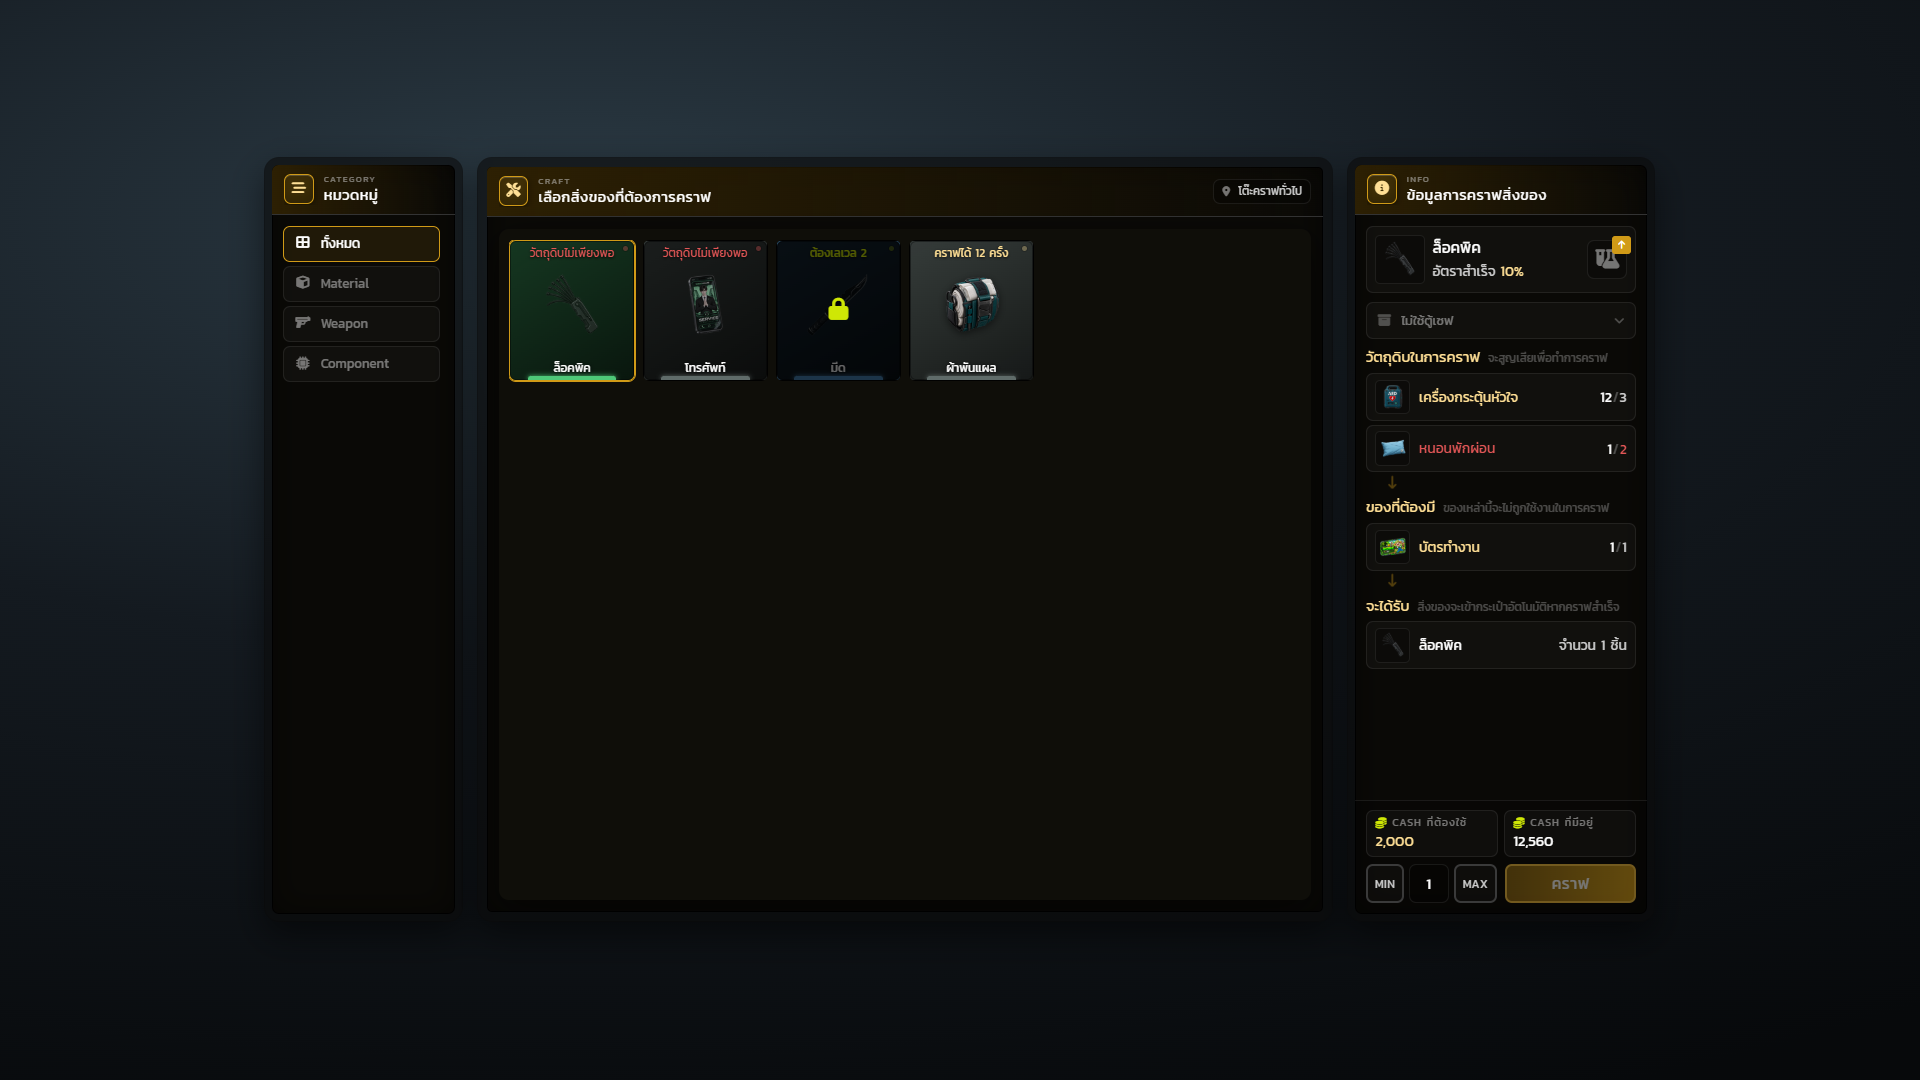
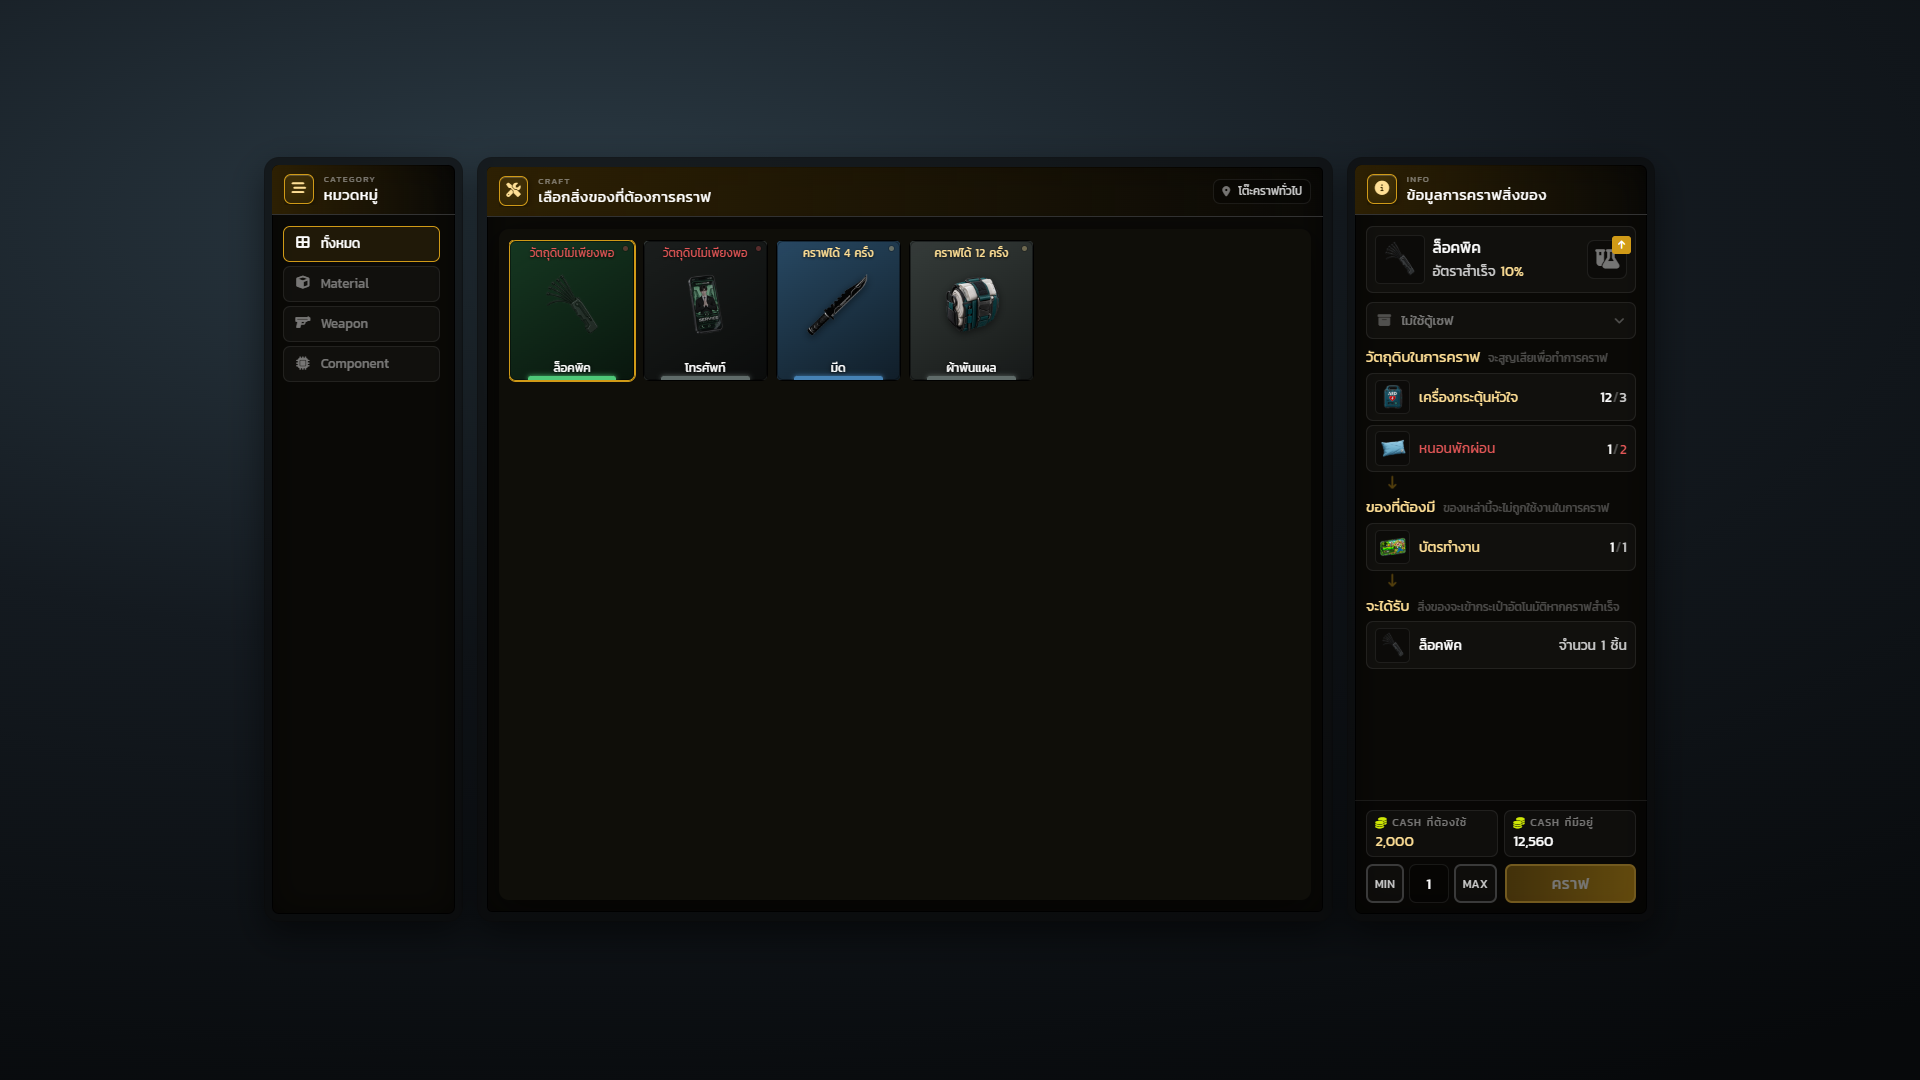
docs: เอาระบบความชำนาญ (XP/Level) ออกทั้งหมด
ถอดระบบเลเวลออกจาก resource แล้ว เอกสารและภาพจึงปรับตาม:
- ตัดหน้าหัวข้อ XP/Level, reqLevel, Shared.Leveling, ตาราง hyper_crafting_xp
- ตัด oxmysql ออกจาก resource ที่ต้องมี (ไม่มีอะไรแตะ DB แล้ว)
- ถ่ายภาพ UI ใหม่ทั้งชุด สูตรอาวุธไม่ถูกล็อกอีกต่อไป

Changed region(s): [[0.4062, 0.2139, 0.4688, 0.3667]]

diff --git a/technology.md b/technology.md
@@ -5,7 +5,7 @@
 ### เปิดโต๊ะ
 
 1. ไคลเอนต์วนตรวจระยะกับโต๊ะทุกตัวใน `Shared.Tables` เข้าใกล้ในรัศมีแล้วโชว์ marker และ Text UI
-2. กด **E** ไคลเอนต์ประกอบ payload ของโต๊ะนั้น — สูตรในหมวดที่โต๊ะเปิด จำนวนของในกระเป๋า ยอดเงิน เลเวล รายการตู้ และการ์ดรายละเอียดไอเทมจาก `Hyper_Inventory`
+2. กด **E** ไคลเอนต์ประกอบ payload ของโต๊ะนั้น — สูตรในหมวดที่โต๊ะเปิด จำนวนของในกระเป๋า ยอดเงิน รายการตู้ และการ์ดรายละเอียดไอเทมจาก `Hyper_Inventory`
 3. ส่งเข้า NUI ด้วย action `open` แล้วเปิดโฟกัสเมาส์
 4. ขอจำนวนของในตู้จากเซิร์ฟเวอร์แยกอีกรอบ ได้แล้วรีเฟรชหน้าจอ
 
@@ -15,7 +15,7 @@
 2. ไคลเอนต์ส่งต่อเป็น event `Hyper_Crafting:craft` ไปเซิร์ฟเวอร์ — **ส่งแค่หมายเลขอ้างอิง ไม่ส่งสูตรหรือราคา**
 3. เซิร์ฟเวอร์ตรวจทีละชั้น (ดูหัวข้อถัดไป) แล้วหักวัตถุดิบ เงิน และไอเทมโบนัสทันที
 4. เซิร์ฟเวอร์ตั้งธงว่าผู้เล่นคนนี้กำลังทำงานอยู่ ส่ง `progress` กลับไปให้ไคลเอนต์วาดวงแหวน แล้วรอเวลาจริงฝั่งเซิร์ฟเวอร์
-5. ครบเวลาแล้วสุ่มผลทีละชิ้นด้วยอัตราที่คำนวณจากสูตรบวกโบนัส จ่ายของที่สำเร็จเข้ากระเป๋า เพิ่ม XP และส่ง `done` กลับ
+5. ครบเวลาแล้วสุ่มผลทีละชิ้นด้วยอัตราที่คำนวณจากสูตรบวกโบนัส จ่ายของที่สำเร็จเข้ากระเป๋า แล้วส่ง `done` กลับ
 6. ถ้าสูตรตั้งประกาศไว้และคราฟติด จะยิงประกาศให้ทุกคนในเซิร์ฟ
 
 ### ยกเลิกกลางคัน
@@ -34,7 +34,6 @@
 | หมวดตรงโต๊ะ | สูตรนั้นต้องอยู่ในหมวดที่โต๊ะตัวนั้นเปิดไว้ |
 | สิทธิ์อาชีพ | อาชีพของผู้เล่นต้องตรงกับที่โต๊ะกำหนด |
 | ระยะทาง | ตำแหน่งผู้เล่นต้องอยู่ในรัศมีของโต๊ะจริง วัดจากฝั่งเซิร์ฟเวอร์ |
-| เลเวล | เลเวลที่อ่านจากฐานข้อมูลต้องถึงขั้นต่ำของสูตร |
 | จำนวน | จำนวนที่ขอถูกบีบให้อยู่ในเพดานของสูตรหรือค่ากลาง |
 | โบนัส | จำนวนไอเทมเพิ่มเรทถูกบีบตามเพดานของสูตร และต้องมีของจริงในกระเป๋า |
 | วัตถุดิบและเงิน | นับจากกระเป๋าจริง (บวกตู้ถ้าเลือก) แล้วหักก่อนเริ่มจับเวลา |
@@ -50,9 +49,8 @@
 ```
 Hyper_Crafting/
 ├── fxmanifest.lua
-├── hyper_crafting.sql          ตาราง hyper_crafting_xp
 ├── config/
-│   ├── config.shared.lua       ค่ากลาง · เลเวล · ตู้เซฟ · tooltip
+│   ├── config.shared.lua       ค่ากลาง · ตู้เซฟ · tooltip
 │   ├── config.craft.lua        หมวด + สูตรคราฟ
 │   ├── config.upgrade.lua      หมวด + รายการอัปเกรด
 │   ├── config.tables.lua       จุดโต๊ะทั้งหมด
@@ -62,13 +60,13 @@ Hyper_Crafting/
 │   └── framework/esx/          adapter ESX (shared / client / server)
 ├── core/
 │   ├── shared/                 version · ตัวช่วยกลาง
-│   ├── client/main.lua         794 บรรทัด — ตรวจระยะ · ประกอบ payload · NUI
-│   └── server/main.lua         905 บรรทัด — ตรวจสิทธิ์ · หักของ · จับเวลา · สุ่มผล
+│   ├── client/main.lua         778 บรรทัด — ตรวจระยะ · ประกอบ payload · NUI
+│   └── server/main.lua         836 บรรทัด — ตรวจสิทธิ์ · หักของ · จับเวลา · สุ่มผล
 ├── utils/                      ตัวช่วยแจ้งเตือน / log
 └── html/
     ├── ui.html                 327 บรรทัด — สองหน้าจอ
-    ├── css/ui.css              2,703 บรรทัด — ธีม 7 ชุด
-    ├── js/app.js               1,755 บรรทัด
+    ├── css/ui.css              2,687 บรรทัด — ธีม 7 ชุด
+    ├── js/app.js               1,740 บรรทัด
     ├── sound/                  เสียงกด · สำเร็จ · ล้มเหลว · แจ้งเตือน
     └── assets/                 ฟอนต์ Kanit + ไอคอน (โหลดในเครื่อง ไม่พึ่งเน็ต)
 ```

diff --git a/ui-screens.md b/ui-screens.md
@@ -8,7 +8,7 @@
 
 ![เลือกสิ่งของที่ต้องการคราฟ](.gitbook/assets/01_craft_pick.png)
 
-หน้าตั้งต้นของโต๊ะคราฟ สามหน้าต่าง — ซ้ายคือหมวดหมู่ กลางคือกริดสูตร ขวาคือข้อมูลการคราฟที่ยังว่างอยู่ การ์ดแต่ละใบบอกสถานะด้วยป้ายบนสุดและจุดกระพริบมุมขวา: คราฟได้กี่ครั้ง วัตถุดิบไม่พอ หรือยังไม่ถึงเลเวล
+หน้าตั้งต้นของโต๊ะคราฟ สามหน้าต่าง — ซ้ายคือหมวดหมู่ กลางคือกริดสูตร ขวาคือข้อมูลการคราฟที่ยังว่างอยู่ การ์ดแต่ละใบบอกสถานะด้วยป้ายบนสุดและจุดกระพริบมุมขวา: คราฟได้กี่ครั้ง หรือวัตถุดิบไม่พอ
 
 ## 2. เลือกสูตรแล้ว
 
@@ -46,11 +46,11 @@
 
 ระหว่างคราฟจะมีแผงขึ้นทับกริด — วงแหวนความคืบหน้าพร้อมรูปไอเทมตรงกลางที่เต้นเป็นจังหวะ มีวงประหมุนและประกายไฟ ใต้วงเป็นชื่อไอเทม เวลานับถอยหลัง จำนวนชิ้นที่เสร็จแล้ว และแถบความคืบหน้า สีทั้งแผงไล่ตามความหายากของไอเทมที่คราฟ ปุ่มคราฟเปลี่ยนเป็น "หยุด"
 
-## 8. สูตรที่ยังล็อกอยู่
+## 8. โต๊ะคราฟอาวุธ
 
-![สูตรที่ยังล็อกอยู่](.gitbook/assets/08_craft_weapon_locked.png)
+![โต๊ะคราฟอาวุธ](.gitbook/assets/08_craft_weapon.png)
 
-โต๊ะคราฟอาวุธเปิดเฉพาะหมวด Weapon สูตรที่เลเวลยังไม่ถึงจะมีแม่กุญแจคลุมและป้ายบอกเลเวลที่ต้องการ กดเลือกไม่ได้จนกว่าจะถึงเลเวล
+โต๊ะแต่ละตัวเปิดได้เฉพาะหมวดที่กำหนดไว้ ในภาพคือโต๊ะคราฟอาวุธที่เปิดแค่หมวด Weapon จึงเห็นสูตรเดียว ส่วนหมวดอื่นในเมนูซ้ายกดไม่ได้
 
 ## 9. โต๊ะอัปเกรด
 

diff --git a/config.md b/config.md
@@ -4,7 +4,7 @@
 
 | ไฟล์ | ฝั่ง | ใช้ตั้งอะไร |
 |---|---|---|
-| `config/config.shared.lua` | shared | ค่ากลางทุกโต๊ะ · ระบบเลเวล · ตู้เซฟ · tooltip · ชื่อไอเทม |
+| `config/config.shared.lua` | shared | ค่ากลางทุกโต๊ะ · ตู้เซฟ · tooltip · ชื่อไอเทม |
 | `config/config.craft.lua` | shared | หมวดหมู่และสูตรคราฟทั้งหมด |
 | `config/config.upgrade.lua` | shared | หมวดและรายการอัปเกรด |
 | `config/config.tables.lua` | shared | จุดโต๊ะทุกตัวในแผนที่ |
@@ -36,13 +36,6 @@ Shared.Settings = {
     vaultGroups  = { { group = 'STANDARD', label = 'ตู้เซฟส่วนตัว' } },
     defaultVault = 'STANDARD',
 }
-
-Shared.Leveling = {
-    enabled    = true,
-    xpPerLevel = 100,   -- xp ต่อ 1 เลเวล
-    defaultXp  = 5,     -- xp ต่อชิ้นถ้าสูตรไม่กำหนด
-    maxLevel   = 100,
-}
 ```
 
 `vaultGroups[].group` ต้องตรงกับ `Config.GroupVault` ของ `Hyper_Vault` ไม่งั้นตู้จะไม่ขึ้นในดรอปดาวน์
@@ -58,8 +51,6 @@ Shared.Recipes[1] = {
         time      = 10,               -- วินาทีต่อชิ้น
         rate      = 10,               -- โอกาสสำเร็จ %
         maxAmount = 5,                -- คราฟทีละกี่ชิ้นสูงสุด
-        reqLevel  = 0,                -- เลเวลขั้นต่ำ
-        xp        = 25,               -- xp ต่อชิ้นสำเร็จ
         equipment = { 'card_work' },  -- ต้องมี แต่ไม่ถูกหัก
         cost      = { money = 2000 }, -- money / bank / black_money
         blueprint = {                 -- วัตถุดิบที่หายไป
@@ -102,8 +93,6 @@ methods = {
     materials  = { { item = 'afk', count = 2 } },   -- หักทั้งสำเร็จและพลาด
     keepBaseOnFail = false,           -- false = พลาดเสียของฐาน
     antiBonus  = { { item = 'aed', label = 'ตัวกันอัพเกรดแตก' } },
-    reqLevel   = 0,
-    xp         = 10,
 }
 ```
 

diff --git a/poster.md b/poster.md
@@ -19,7 +19,7 @@
 1. **สองโต๊ะในตัวเดียว** — โต๊ะคราฟของทั่วไปกับโต๊ะอัปเกรดเลื่อนขั้นของ ใช้โค้ดชุดเดียวกัน
 2. **ลุ้นเรทได้จริง** — ใส่ไอเทมเพิ่ม % สำเร็จทีละชิ้น หรือใส่ของกันแตกให้การันตี 100%
 3. **หลายสูตรในหนึ่งไอเทม** — สูตรเดียวทำได้สูงสุด 4 ทาง ใช้วัตถุดิบและเงินคนละชุด
-4. **ระบบความชำนาญ** — ยิ่งคราฟยิ่งเก่ง ปลดล็อกสูตรขั้นสูงตามเลเวล เก็บลงฐานข้อมูล
+4. **ไม่แตะฐานข้อมูล** — ไม่ต้อง import ตารางอะไร วางแล้ว ensure ได้เลย
 5. **ดึงของจากตู้เซฟ** — ไม่ต้องขนของใส่กระเป๋าก่อนคราฟ เลือกตู้แล้วใช้ได้เลย
 6. **7 ธีมสี** — เปลี่ยนทั้งระบบด้วยบรรทัดเดียว เข้ากับหน้าตาเซิร์ฟเวอร์ได้ทุกแบบ
 
@@ -29,9 +29,8 @@
 |---|---|
 | 7 | ธีมสีสำเร็จรูป |
 | 4 | วิธีคราฟต่อหนึ่งสูตร |
-| 100 | เลเวลความชำนาญสูงสุด |
 | 76 | ข้อความที่แก้ได้ในไฟล์เดียว |
-| 13 | ด่านตรวจฝั่งเซิร์ฟเวอร์ก่อนคราฟหนึ่งครั้ง |
+| 12 | ด่านตรวจฝั่งเซิร์ฟเวอร์ก่อนคราฟหนึ่งครั้ง |
 | 0 | ค่าที่ไคลเอนต์ส่งมาแล้วเซิร์ฟเวอร์เชื่อโดยไม่ตรวจ |
 
 ## สีแบรนด์

diff --git a/README.md b/README.md
@@ -12,10 +12,9 @@
 | เฟรมเวิร์ก | ESX (แยก adapter ไว้ที่ `config/framework/esx/`) |
 | Dependency | `Hyper_Notifyall` (แจ้งเตือน + Text UI) |
 | เชื่อมต่อเพิ่ม | `Hyper_Inventory` · `Hyper_Vault` · `Hyper_Discordlogs` · `Hyper_Check` |
-| ฐานข้อมูล | ตาราง `hyper_crafting_xp` (import `hyper_crafting.sql`) |
 | NUI | `html/ui.html` — สองหน้าจอ (คราฟ / อัปเกรด) |
 | ธีมสี | 7 ธีม เลือกด้วย `Config.Theme` |
-| ขนาดโค้ด | 7,320 บรรทัด (Lua 1,993 · JS 1,755 · CSS 2,703 · HTML 327) |
+| ขนาดโค้ด | 7,180 บรรทัด (Lua 2,426 · JS 1,740 · CSS 2,687 · HTML 327) |
 
 ## โต๊ะที่ตั้งไว้ให้แล้ว
 
@@ -29,11 +28,12 @@
 
 ## เริ่มใช้งาน
 
-1. import `hyper_crafting.sql` เข้าฐานข้อมูล (ไม่ import ระบบเลเวลจะไม่ทำงาน)
-2. วางโฟลเดอร์ใน `resources` แล้ว `ensure Hyper_Crafting` ใน `server.cfg`
-3. ตั้งเว็บฮุก Discord (ถ้าต้องการ log) ใน `server.cfg`:
+1. วางโฟลเดอร์ใน `resources` แล้ว `ensure Hyper_Crafting` ใน `server.cfg`
+2. ตั้งเว็บฮุก Discord (ถ้าต้องการ log) ใน `server.cfg`:
    `set hyper_crafting_webhook "https://discord.com/api/webhooks/..."`
-4. แก้สูตรที่ `config/config.craft.lua` และจุดโต๊ะที่ `config/config.tables.lua`
+3. แก้สูตรที่ `config/config.craft.lua` และจุดโต๊ะที่ `config/config.tables.lua`
+
+ไม่ต้อง import ฐานข้อมูล ระบบนี้ไม่เก็บอะไรลง DB
 
 ## ลัดไปหน้าที่ต้องการ
 

diff --git a/features.md b/features.md
@@ -41,15 +41,6 @@
 
 โต๊ะนี้ทำทีละ 1 ชิ้นเสมอ ช่องจำนวนจึงล็อกไว้ที่ 1
 
-## ความชำนาญ (XP / Level)
-
-เก็บลงตาราง `hyper_crafting_xp` แยกตาม identifier ของผู้เล่น
-
-* ได้ XP ทุกชิ้นที่คราฟสำเร็จ — กำหนดรายสูตรที่ `recipe.xp` ไม่ใส่ใช้ `Leveling.defaultXp` (5)
-* 100 XP ต่อ 1 เลเวล (`xpPerLevel`) เพดาน 100 เลเวล (`maxLevel`)
-* สูตรที่ตั้ง `reqLevel` ไว้จะล็อกไว้จนกว่าเลเวลถึง การ์ดขึ้นแม่กุญแจและป้าย "ต้องเลเวล N"
-* ขึ้นเลเวลแล้วแจ้งเตือนผ่าน `Hyper_Notifyall`
-
 ## ดึงวัตถุดิบจากตู้เซฟ
 
 เชื่อมกับ `Hyper_Vault` ให้ดึงของในตู้ส่วนตัวมาใช้คราฟร่วมกับของในกระเป๋าได้ ผู้เล่นเลือกตู้จากดรอปดาวน์ในหน้าต่างข้อมูล ระบบหักจากกระเป๋าก่อนแล้วค่อยหักจากตู้

diff --git a/themes.md b/themes.md
@@ -36,7 +36,7 @@ Config.Theme = 'seagreen'
 
 * สีความหายากของไอเทม — มาจาก `Hyper_Inventory` ทำให้ของชิ้นเดียวกันสีเดียวกันทุกที่ในเซิร์ฟ
 * สีแดงเตือน (วัตถุดิบไม่พอ / เงินไม่พอ) — ยกเว้นธีม `crimson` ที่เปลี่ยนสีเตือนเป็นอำพันเพื่อไม่ให้ชนกับสีธีม
-* สีเหลืองของแม่กุญแจและกล่องคำเตือนในการ์ดรายละเอียด
+* สีเหลืองของกล่องคำเตือนในการ์ดรายละเอียด
 * วงแหวนเอฟเฟกต์ตอนคราฟ/อัปเกรด — ไล่ตามความหายากของไอเทม ไม่ใช่ตามธีม
 
 ## ภาพทีละธีม
